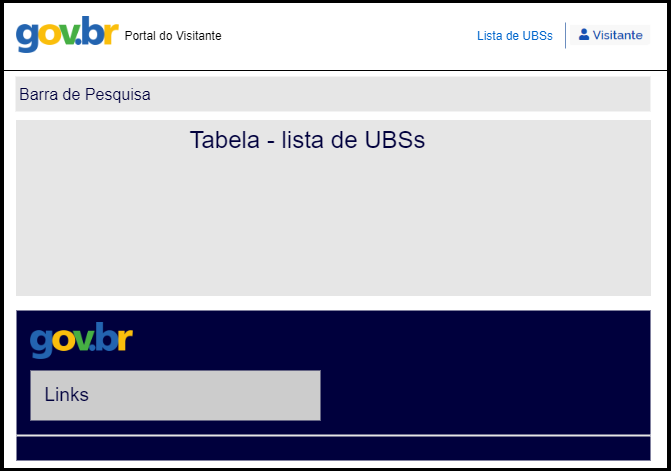
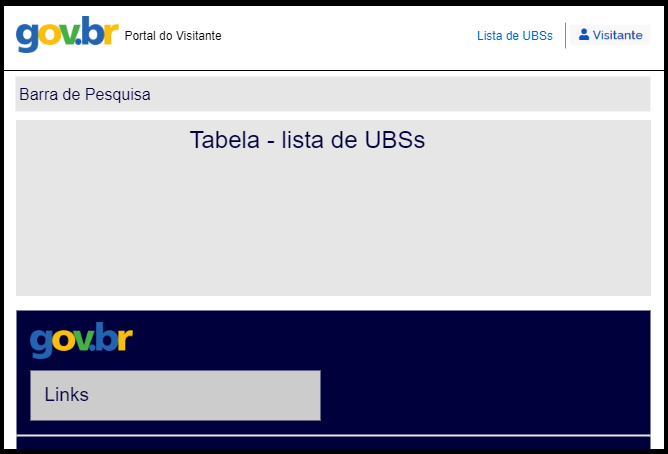
Links Corretos

Changed region(s): [[0.0, 0.6167, 1.0, 1.0], [0.0, 0.0, 1.0, 0.3392], [0.6886, 0.0617, 0.9581, 0.0925]]

diff --git a/src/components/Header.js b/src/components/Header.js
@@ -26,19 +26,18 @@ export default function Header({titulo,nome}) {
                     <div class="title">Acesso Rápido</div>
                    
                   </div>
-                  {titulo!=='Portal do Administrador'?
-                   <Link to='/visitante'class="br-item">Lista de UBSs</Link> :<></> }
+                  
                   
                   
                 </div>
-              </div> <span class="br-divider vertical mx-half mx-sm-1"></span>
+              
              
-            
-              <div class="header-search-trigger">
-              <a class="br-item">Lista de UBSs</a>
-              </div>
+              {titulo!=='Portal do Administrador'?
+                   <Link to='/visitante'class="br-item">Lista de UBSs</Link> :<></> }
+                   </div> <span class="br-divider vertical mx-half mx-sm-1"></span>
+              
               {
-                titulo==='Portal do Administrador' || titulo ==='Portal do Visitante'?
+                nome !==''?
                 <div class="header-login">
                 <div class="header-sign-in">
                   <button class="br-sign-in small" 
@@ -55,7 +54,7 @@ export default function Header({titulo,nome}) {
                   type="button" 
                   >
                     <i class="fas fa-user" aria-hidden="true"></i>
-                    <span class="d-sm-inline">Entrar</span>
+                    <span class="d-sm-inline">Login</span>
                   </button>
                 </div>
                 </div>

diff --git a/src/pages/LandingPage.js b/src/pages/LandingPage.js
@@ -23,6 +23,7 @@ export default function LandingPage() {
   const currentItens = itens.slice(startIndex,endIndex);
   const [email,setEmail] = useState('');
   const [senha,setSenha] = useState('');
+  const nome = localStorage.getItem('nome')
   
   useEffect(()=>{
   
@@ -64,7 +65,7 @@ export default function LandingPage() {
   return (
     <div>
       
-        <Header titulo="Landing Page"/>
+        <Header titulo="Landing Page" nome={nome}/>
       <div class="container-fluid">
       <div class="row mt-3">
         <div class="col-sm">

diff --git a/src/index.css b/src/index.css
@@ -1,5 +1,7 @@
 .ajuste{
     margin-top: 8px;
-    text-align: left;
-    
+    text-align: left;   
+}
+.tableAjuste{
+    height: 20px;
 }
